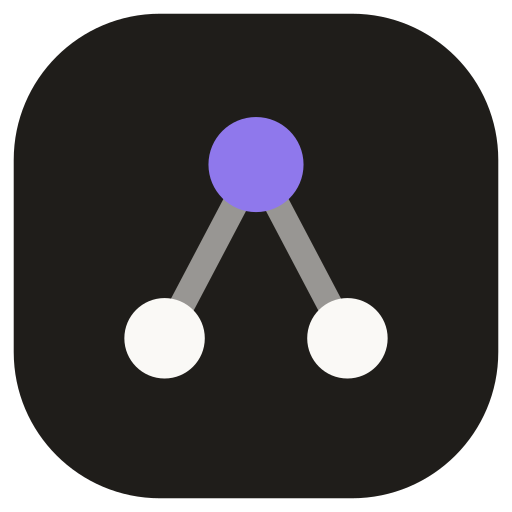
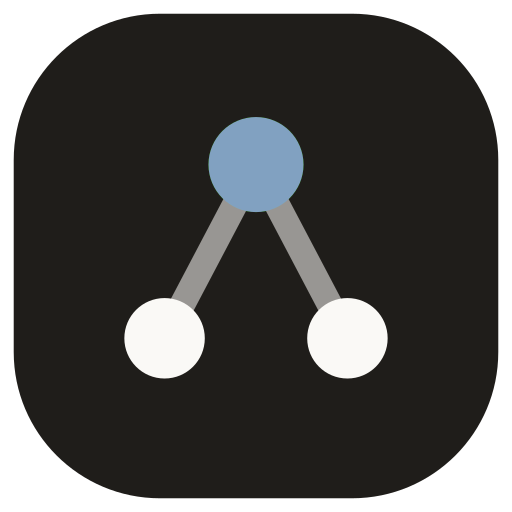
Switch accent from violet to Nord frost blue
Light uses nord10 (#5e81ac) with a deepened shade for AA link text;
dark uses nord8 (#88c0d0) on nord0 text. Favicon, app icons, social
card and cover-art fallbacks follow.

Changed region(s): [[0.4062, 0.2188, 0.5938, 0.4375]]

diff --git a/src/components/series/SeriesCover.tsx b/src/components/series/SeriesCover.tsx
@@ -124,7 +124,7 @@ function GeneratedCover({ seed }: { seed: string }) {
             height="48"
             rx="14"
             fill="var(--surface, #ffffff)"
-            stroke={i === accent ? "var(--accent, #6d4fd1)" : "var(--subtle, #8d867b)"}
+            stroke={i === accent ? "var(--accent, #5e81ac)" : "var(--subtle, #8d867b)"}
             strokeWidth="2.5"
           />
           {i === accent && (
@@ -134,13 +134,13 @@ function GeneratedCover({ seed }: { seed: string }) {
               width="104"
               height="48"
               rx="14"
-              fill="var(--accent, #6d4fd1)"
+              fill="var(--accent, #5e81ac)"
               fillOpacity=".12"
             />
           )}
           <path
             d={`M${n.x - 30} ${n.y}h${36 + Math.round(rnd() * 20)}`}
-            stroke={i === accent ? "var(--accent, #6d4fd1)" : "var(--line-strong, #d4cec3)"}
+            stroke={i === accent ? "var(--accent, #5e81ac)" : "var(--line-strong, #d4cec3)"}
             strokeWidth="6"
             strokeLinecap="round"
           />

diff --git a/src/styles/app.css b/src/styles/app.css
@@ -24,8 +24,8 @@
   --subtle: #736c61;
   --line: #e6e2da;
   --line-strong: #d4cec3;
-  --accent: #6d4fd1;
-  --accent-strong: #5a3dbd;
+  --accent: #5e81ac; /* nord10 */
+  --accent-strong: #4c6a91; /* nord10, deepened for AA link text */
   --accent-fg: #ffffff;
   --warm: #c98a2b;
   /* --warm is decorative (dots, strokes); use --warm-text for text (>=4.5:1) */
@@ -70,9 +70,9 @@
   --subtle: #8a8479;
   --line: #2a2825;
   --line-strong: #3a3733;
-  --accent: #a995f0;
-  --accent-strong: #c0b1f6;
-  --accent-fg: #17131f;
+  --accent: #88c0d0; /* nord8 */
+  --accent-strong: #a3d0dc; /* nord8, lifted for hover */
+  --accent-fg: #2e3440; /* nord0 */
   --warm: #e4b261;
   --warm-text: #e4b261;
 
